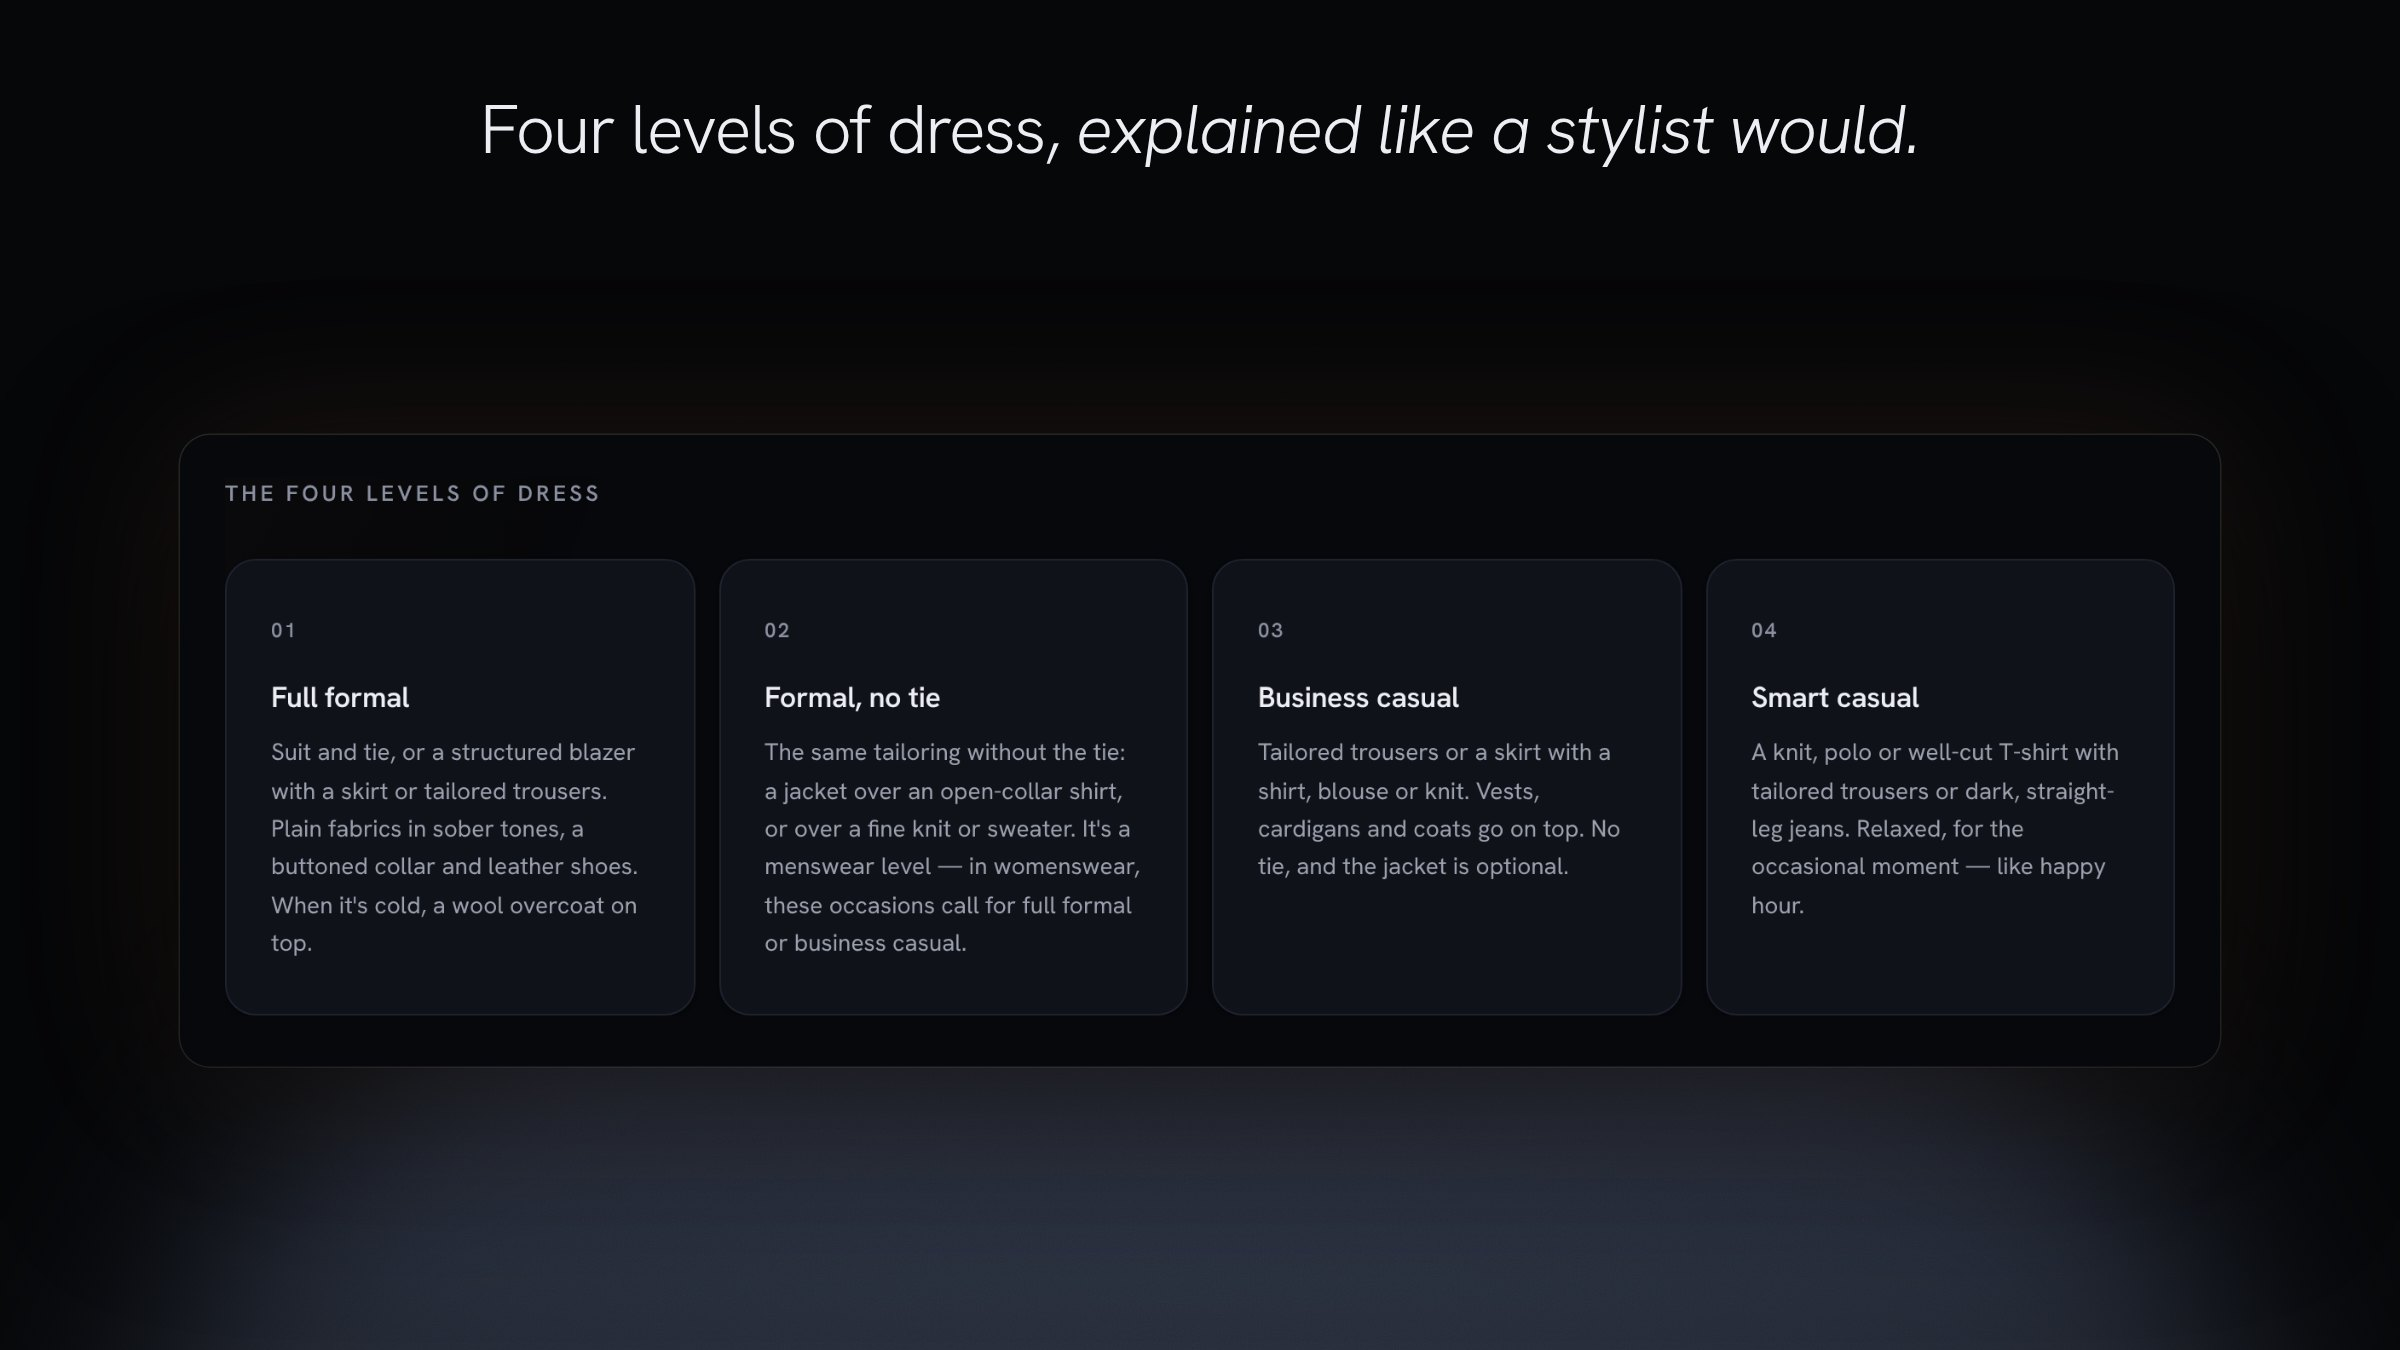
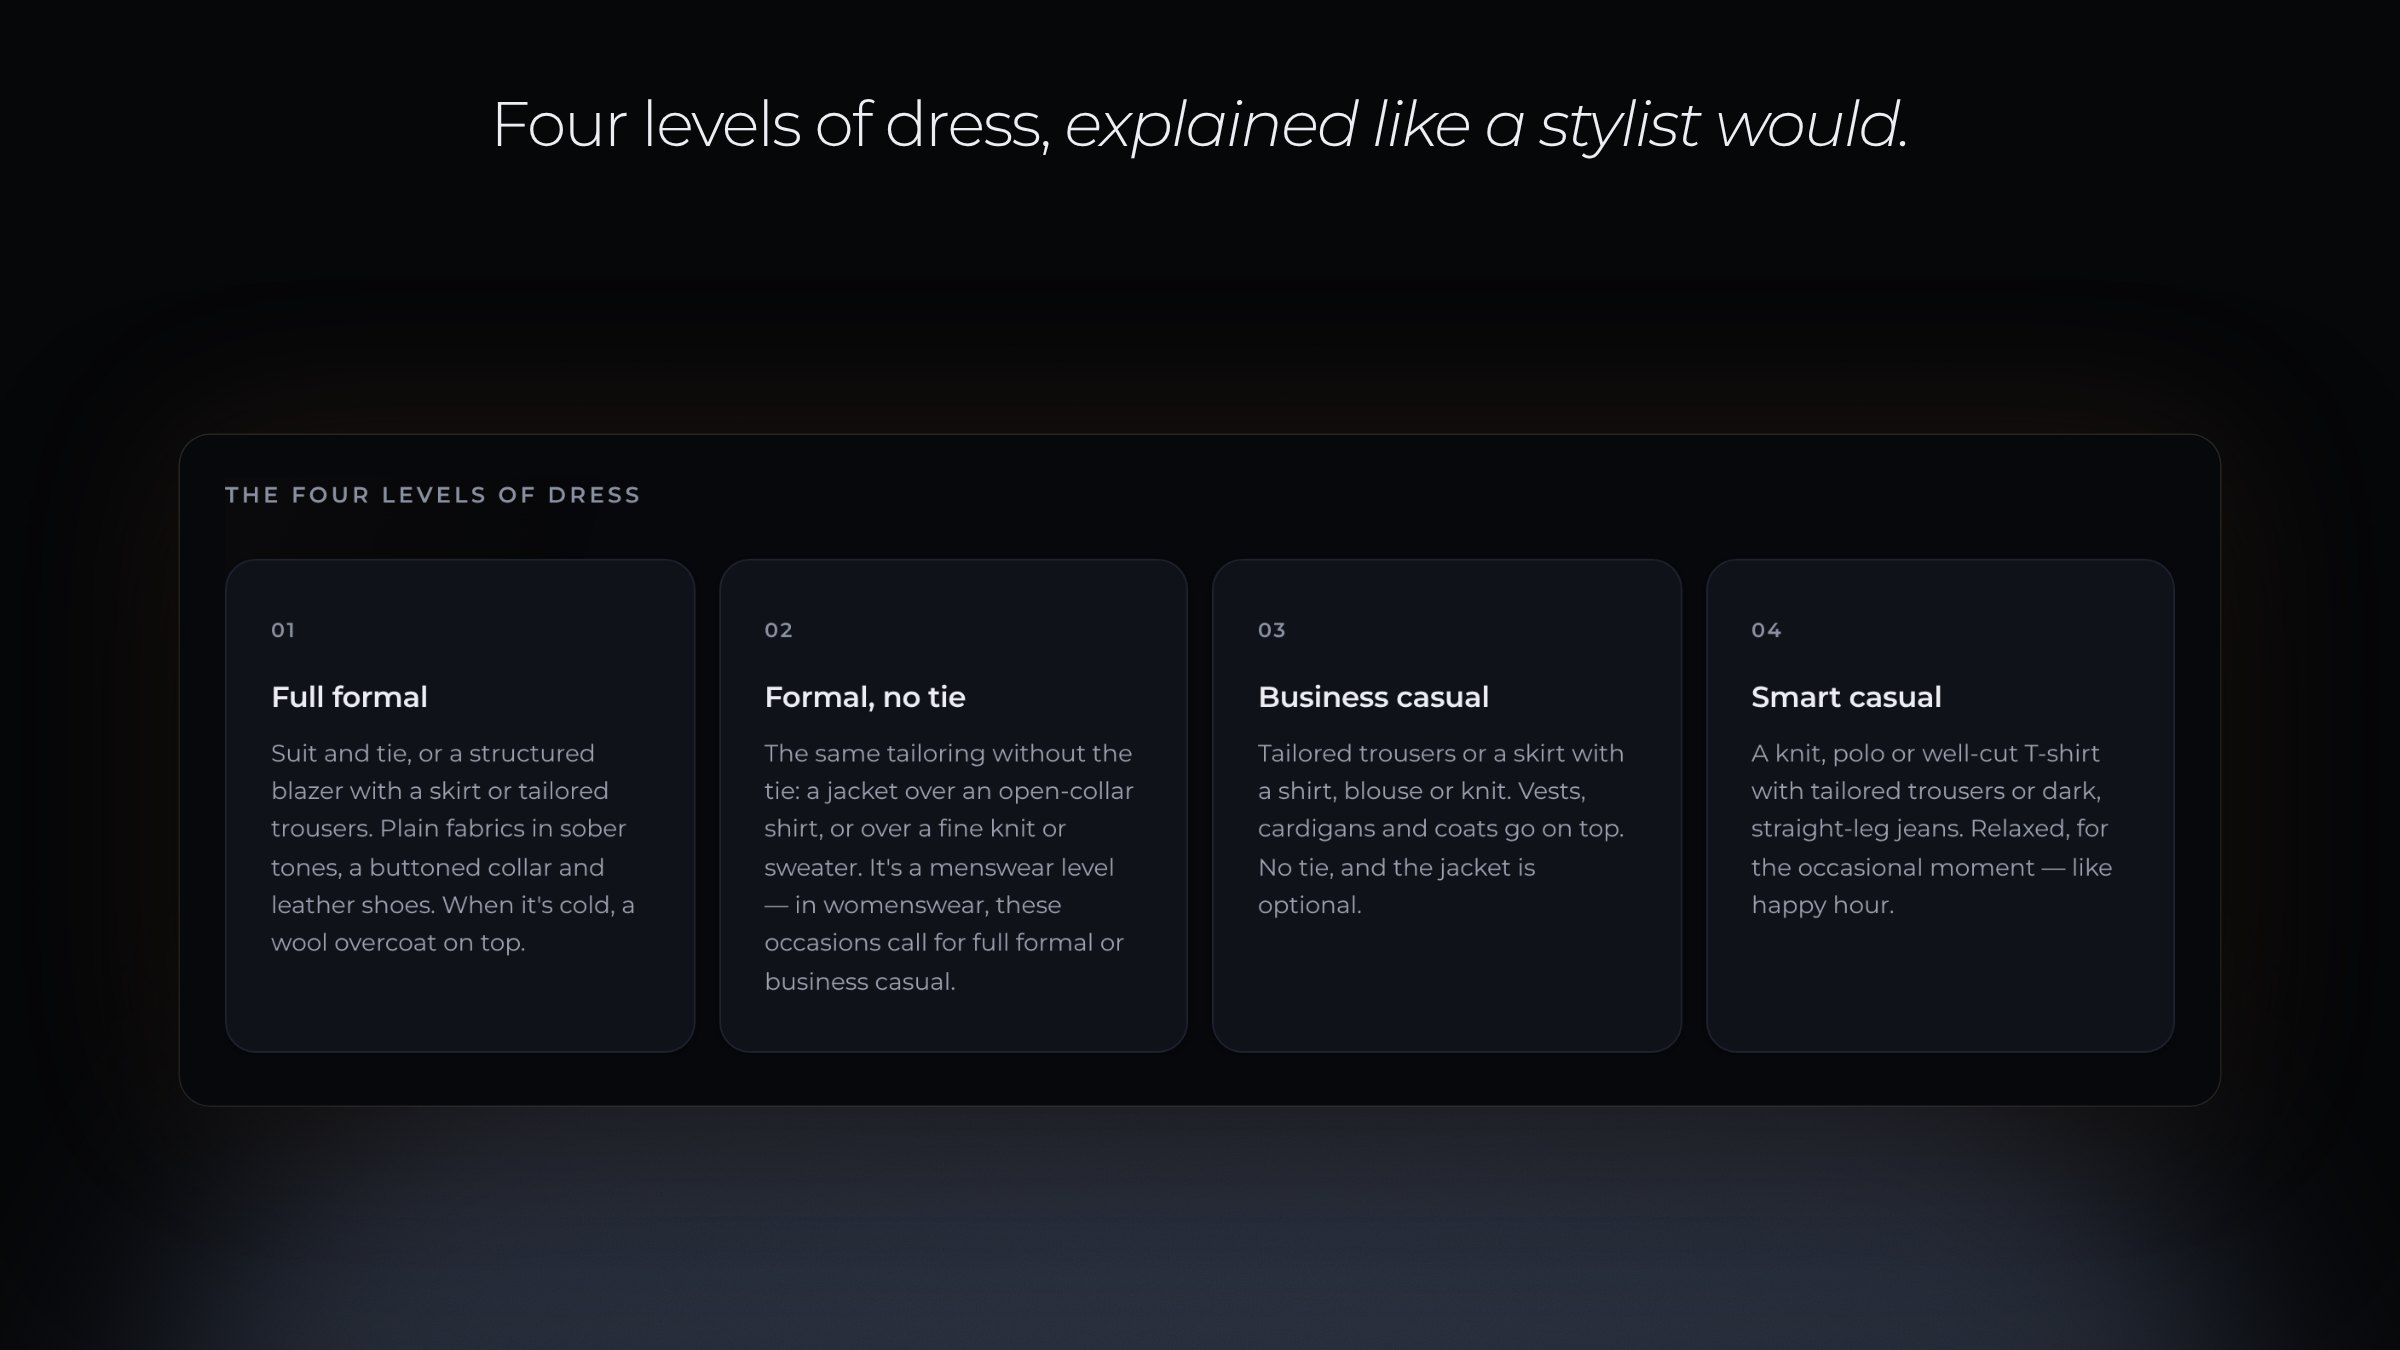
Passa a plataforma Context para Montserrat e destaca o smart casual
A plataforma e as legendas dos slides usam Montserrat. Os slides passam
a mostrar os looks smart casual (happy hour, clima ameno), mais
despojados, e a aba de partes de cima entra no lugar da de sapatos.

Claude-Session: https://claude.ai/code/session_01WbwawHgNyP5R64fneBLes7

diff --git a/index.html b/index.html
@@ -921,13 +921,13 @@ body.cursor-click #cursor-dot {
         </div>
         <div class="proj-images">
           <div class="case-img"><img src="assets/images/context_01.jpg" loading="lazy" alt="Context — logo sobre a esfera da marca" style="width:100%;display:block;border-radius:12px;"/></div>
-          <div class="case-img"><img src="assets/images/context_02.jpg" loading="lazy" alt="Context — looks por nível de formalidade" style="width:100%;display:block;border-radius:12px;"/></div>
+          <div class="case-img"><img src="assets/images/context_02.jpg" loading="lazy" alt="Context — looks smart casual" style="width:100%;display:block;border-radius:12px;"/></div>
           <div class="case-img"><img src="assets/images/context_03.jpg" loading="lazy" alt="Context — cinco filtros: área, ocasião, clima, estilo e guarda-roupa" style="width:100%;display:block;border-radius:12px;"/></div>
           <div class="case-img"><img src="assets/images/context_04.jpg" loading="lazy" alt="Context — os quatro níveis de vestimenta" style="width:100%;display:block;border-radius:12px;"/></div>
           <div class="case-img"><img src="assets/images/context_05.jpg" loading="lazy" alt="Context — looks sugeridos para o contexto escolhido" style="width:100%;display:block;border-radius:12px;"/></div>
           <div class="case-img"><img src="assets/images/context_06.jpg" loading="lazy" alt="Context — regra apresentada como conselho" style="width:100%;display:block;border-radius:12px;"/></div>
-          <div class="case-img"><img src="assets/images/context_07.jpg" loading="lazy" alt="Context — sapatos e tons de esmalte" style="width:100%;display:block;border-radius:12px;"/></div>
-          <div class="case-img"><img src="assets/images/context_08.jpg" loading="lazy" alt="Context — looks masculinos formais" style="width:100%;display:block;border-radius:12px;"/></div>
+          <div class="case-img"><img src="assets/images/context_07.jpg" loading="lazy" alt="Context — partes de cima e tons de esmalte" style="width:100%;display:block;border-radius:12px;"/></div>
+          <div class="case-img"><img src="assets/images/context_08.jpg" loading="lazy" alt="Context — looks masculinos smart casual" style="width:100%;display:block;border-radius:12px;"/></div>
           <div class="case-img"><img src="assets/images/context_09.jpg" loading="lazy" alt="Context — painel para editar os filtros" style="width:100%;display:block;border-radius:12px;"/></div>
           <div class="case-img"><img src="assets/images/context_10.jpg" loading="lazy" alt="Context — versão para celular" style="width:100%;display:block;border-radius:12px;"/></div>
         </div>
